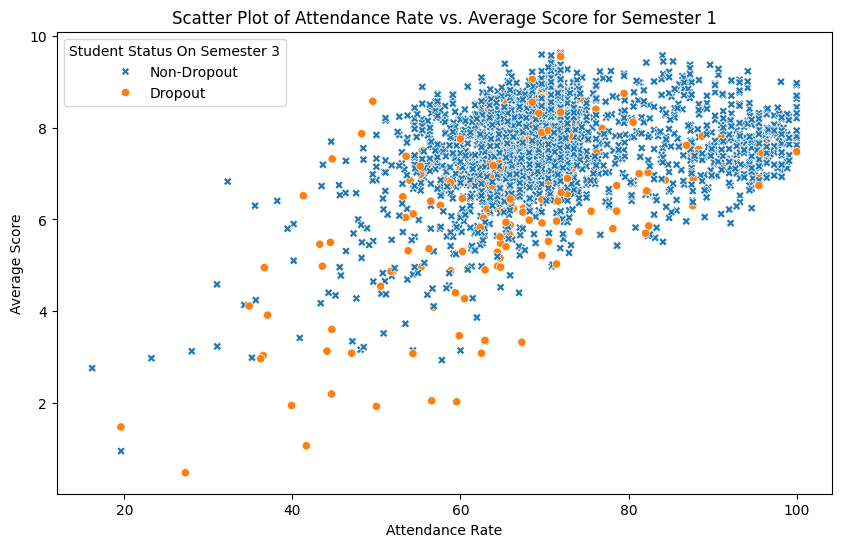
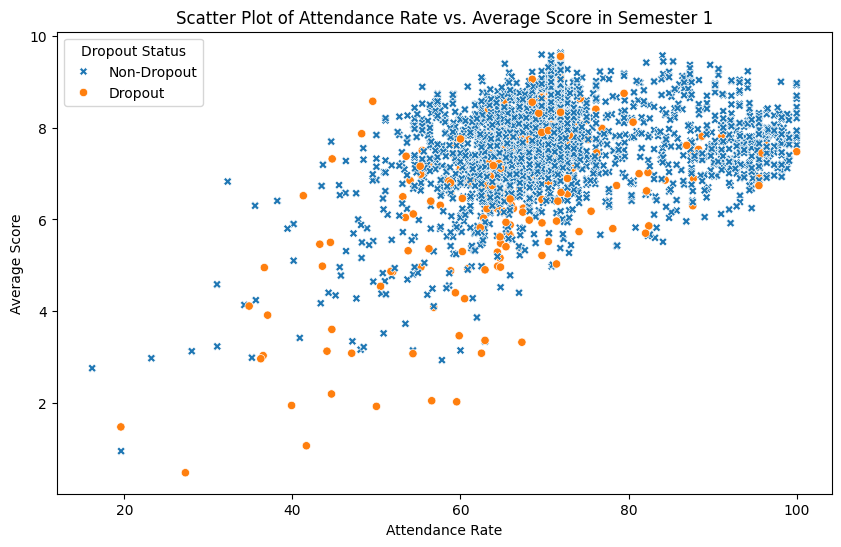
scatter plot for each semester

Changed region(s): [[0.0927, 0.0, 0.8347, 0.1865], [0.7111, 0.3729, 0.742, 0.404]]

diff --git a/pp/Final_plots/plot_scatterplot_each_semester.py b/pp/Final_plots/plot_scatterplot_each_semester.py
@@ -1,0 +1,198 @@
+import pandas as pd
+import seaborn as sns
+import matplotlib.pyplot as plt
+import re, ast
+
+# Load the dataset
+combine_data = pd.read_csv('sampled_students_data_new.csv')
+
+# Create a new column to differentiate dropout and non-dropout students
+combine_data['dropout_status'] = combine_data['semester_3_status'].apply(lambda x: 'Dropout' if x == 'THO' else 'Non-Dropout')
+
+# Pattern to split the JSON formatted data
+decimal_pattern = re.compile(r"Decimal\('(\d+\.\d+)'\)")
+
+# Apply pattern on selected column
+combine_data['semester_1'] = combine_data['semester_1'].apply(
+    lambda x: decimal_pattern.sub(r"'\1'", str(x)))
+combine_data['semester_2'] = combine_data['semester_2'].apply(
+    lambda x: decimal_pattern.sub(r"'\1'", str(x)))
+combine_data['semester_3'] = combine_data['semester_3'].apply(
+    lambda x: decimal_pattern.sub(r"'\1'", str(x)))
+
+df1, df2, df3 = [], [], []
+
+# Transform the data into normal format
+for index, row in combine_data.iterrows():
+    sem = ast.literal_eval(row['semester_1'])
+    sem_df = pd.DataFrame.from_dict(sem, orient='index').reset_index()\
+        .rename(columns={'index': 'subject_code'})
+    sem_df['student_code'] = row['student_code']
+    sem_df['dropout_status'] = row['dropout_status']
+    sem_df['semester'] = 1
+    df1.append(sem_df)
+
+for index, row in combine_data.iterrows():
+    sem = ast.literal_eval(row['semester_2'])
+    sem_df = pd.DataFrame.from_dict(sem, orient='index').reset_index()\
+        .rename(columns={'index': 'subject_code'})
+    sem_df['student_code'] = row['student_code']
+    sem_df['dropout_status'] = row['dropout_status']
+    sem_df['semester'] = 2
+    df2.append(sem_df)
+
+for index, row in combine_data.iterrows():
+    sem = ast.literal_eval(row['semester_3'])
+    sem_df = pd.DataFrame.from_dict(sem, orient='index').reset_index()\
+        .rename(columns={'index': 'subject_code'})
+    sem_df['student_code'] = row['student_code']
+    sem_df['dropout_status'] = row['dropout_status']
+    sem_df['semester'] = 3
+    df3.append(sem_df)
+
+combine_df1 = pd.concat(df1).dropna()
+combine_df2 = pd.concat(df2).dropna()
+combine_df3 = pd.concat(df3).dropna()
+
+array_loop = [combine_df1, combine_df2, combine_df3]
+
+merged_df = combine_data
+
+for index, item in enumerate(array_loop):
+    item["total_credit"] = item["number_of_credit"] * item["learnt_times"]
+    item["credit_passed"] = (1 / item["learnt_times"] * item["total_credit"]).where(item["passed"] == True, 0)
+    df = item.groupby('student_code').agg({
+        'total_credit': 'sum',
+        'credit_passed': 'sum',
+    }).reset_index()
+    df[f"semester_{index+1}_passed_percent"] = df["credit_passed"] / df["total_credit"] * 100
+    dfm = df[["student_code", f"semester_{index+1}_passed_percent"]]
+    merged_df = pd.merge(merged_df, dfm, on='student_code')
+
+df = merged_df[['dropout_status', 
+                'semester_1_attendance_rate', "semester_1_average_score", "semester_1_passed_percent",
+                'semester_2_attendance_rate', "semester_2_average_score", "semester_2_passed_percent",
+                'semester_3_attendance_rate', "semester_3_average_score", "semester_3_passed_percent"]]
+
+"""
+Semester 1
+"""
+# Scatter Plot for Final Attendance Rate and Average Score
+fig, ax = plt.subplots(figsize=(10, 6))
+sns.scatterplot(x='semester_1_attendance_rate', y='semester_1_average_score', hue='dropout_status', style='dropout_status', markers=['X', 'o'], data=df, ax=ax)
+ax.set_title('Scatter Plot of Attendance Rate vs. Average Score in Semester 1')
+ax.set_xlabel('Attendance Rate')
+ax.set_ylabel('Average Score')
+ax.legend(title='Dropout Status')
+# Save the figure
+output_path = 'plot_scatterplot_attendance_rate_and_average_score_semester1.png'
+fig.savefig(output_path, bbox_inches='tight')
+plt.show()
+
+
+# Scatter Plot for Final Attendance Rate and Passed Credit Percent
+fig, ax = plt.subplots(figsize=(10, 6))
+sns.scatterplot(x='semester_1_attendance_rate', y='semester_1_passed_percent', hue='dropout_status', style='dropout_status', markers=['X', 'o'], data=df, ax=ax)
+ax.set_title('Scatter Plot of Attendance Rate vs. Passed Credit Percent in Semester 1')
+ax.set_xlabel('Attendance Rate')
+ax.set_ylabel('Passed Credit Percent')
+ax.legend(title='Dropout Status')
+# Save the figure
+output_path = 'plot_scatterplot_attendance_rate_and_passed_percent_semester1.png'
+fig.savefig(output_path, bbox_inches='tight')
+plt.show()
+
+# Scatter Plot for Final Average Score and Passed Credit Percent
+fig, ax = plt.subplots(figsize=(10, 6))
+sns.scatterplot(x='semester_1_average_score', y='semester_1_passed_percent', hue='dropout_status', style='dropout_status', markers=['X', 'o'], data=df, ax=ax)
+ax.set_title('Scatter Plot of Average Score vs. Passed Credit Percent in Semester 1')
+ax.set_xlabel('Average Score')
+ax.set_ylabel('Passed Credit Percent')
+ax.legend(title='Dropout Status')
+# Save the figure
+output_path = 'plot_scatterplot_average_score_and_passed_percent_semester1.png'
+fig.savefig(output_path, bbox_inches='tight')
+plt.show()
+
+"""
+Semester 2
+"""
+# Scatter Plot for Final Attendance Rate and Average Score
+fig, ax = plt.subplots(figsize=(10, 6))
+sns.scatterplot(x='semester_2_attendance_rate', y='semester_2_average_score', hue='dropout_status', style='dropout_status', markers=['X', 'o'], data=df, ax=ax)
+ax.set_title('Scatter Plot of Attendance Rate vs. Average Score in Semester 2')
+ax.set_xlabel('Attendance Rate')
+ax.set_ylabel('Average Score')
+ax.legend(title='Dropout Status')
+# Save the figure
+output_path = 'plot_scatterplot_attendance_rate_and_average_score_semester2.png'
+fig.savefig(output_path, bbox_inches='tight')
+plt.show()
+
+
+# Scatter Plot for Final Attendance Rate and Passed Credit Percent
+fig, ax = plt.subplots(figsize=(10, 6))
+sns.scatterplot(x='semester_2_attendance_rate', y='semester_2_passed_percent', hue='dropout_status', style='dropout_status', markers=['X', 'o'], data=df, ax=ax)
+ax.set_title('Scatter Plot of Attendance Rate vs. Passed Credit Percent in Semester 2')
+ax.set_xlabel('Attendance Rate')
+ax.set_ylabel('Passed Credit Percent')
+ax.legend(title='Dropout Status')
+# Save the figure
+output_path = 'plot_scatterplot_attendance_rate_and_passed_percent_semester2.png'
+fig.savefig(output_path, bbox_inches='tight')
+plt.show()
+
+# Scatter Plot for Final Average Score and Passed Credit Percent
+fig, ax = plt.subplots(figsize=(10, 6))
+sns.scatterplot(x='semester_2_average_score', y='semester_2_passed_percent', hue='dropout_status', style='dropout_status', markers=['X', 'o'], data=df, ax=ax)
+ax.set_title('Scatter Plot of Average Score vs. Passed Credit Percent in Semester 2')
+ax.set_xlabel('Average Score')
+ax.set_ylabel('Passed Credit Percent')
+ax.legend(title='Dropout Status')
+# Save the figure
+output_path = 'plot_scatterplot_average_score_and_passed_percent_semester2.png'
+fig.savefig(output_path, bbox_inches='tight')
+plt.show()
+
+"""
+Semester 3
+"""
+# Scatter Plot for Final Attendance Rate and Average Score
+fig, ax = plt.subplots(figsize=(10, 6))
+sns.scatterplot(x='semester_3_attendance_rate', y='semester_3_average_score', hue='dropout_status', style='dropout_status', markers=['X', 'o'], data=df, ax=ax)
+ax.set_title('Scatter Plot of Attendance Rate vs. Average Score in Semester 3')
+ax.set_xlabel('Attendance Rate')
+ax.set_ylabel('Average Score')
+ax.legend(title='Dropout Status')
+# Save the figure
+output_path = 'plot_scatterplot_attendance_rate_and_average_score_semester3.png'
+fig.savefig(output_path, bbox_inches='tight')
+plt.show()
+
+
+# Scatter Plot for Final Attendance Rate and Passed Credit Percent
+fig, ax = plt.subplots(figsize=(10, 6))
+sns.scatterplot(x='semester_3_attendance_rate', y='semester_3_passed_percent', hue='dropout_status', style='dropout_status', markers=['X', 'o'], data=df, ax=ax)
+ax.set_title('Scatter Plot of Attendance Rate vs. Passed Credit Percent in Semester 3')
+ax.set_xlabel('Attendance Rate')
+ax.set_ylabel('Passed Credit Percent')
+ax.legend(title='Dropout Status')
+# Save the figure
+output_path = 'plot_scatterplot_attendance_rate_and_passed_percent_semester3.png'
+fig.savefig(output_path, bbox_inches='tight')
+plt.show()
+
+# Scatter Plot for Final Average Score and Passed Credit Percent
+fig, ax = plt.subplots(figsize=(10, 6))
+sns.scatterplot(x='semester_3_average_score', y='semester_3_passed_percent', hue='dropout_status', style='dropout_status', markers=['X', 'o'], data=df, ax=ax)
+ax.set_title('Scatter Plot of Average Score vs. Passed Credit Percent in Semester 3')
+ax.set_xlabel('Average Score')
+ax.set_ylabel('Passed Credit Percent')
+ax.legend(title='Dropout Status')
+# Save the figure
+output_path = 'plot_scatterplot_average_score_and_passed_percent_semester3.png'
+fig.savefig(output_path, bbox_inches='tight')
+plt.show()
+
+
+

diff --git a/pp/Final_plots/plot_scatterplot_final.py b/pp/Final_plots/plot_scatterplot_final.py
@@ -105,7 +105,7 @@ ax.set_ylabel('Passed Credit Percent')
 ax.legend(title='Dropout Status')
 
 # Save the figure
-output_path = 'plot_scatterplot_attendance_rate_and_passed_percent.png'
+output_path = 'plot_scatterplot_attendance_rate_and_passed_percent_final.png'
 fig.savefig(output_path, bbox_inches='tight')
 plt.show()
 
@@ -118,7 +118,7 @@ ax.set_ylabel('Passed Credit Percent')
 ax.legend(title='Dropout Status')
 
 # Save the figure
-output_path = 'plot_scatterplot_average_score_and_passed_percent.png'
+output_path = 'plot_scatterplot_average_score_and_passed_percent_final.png'
 fig.savefig(output_path, bbox_inches='tight')
 plt.show()
 
